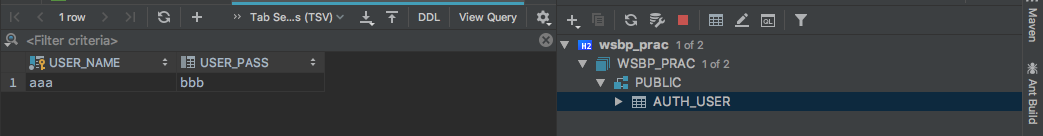
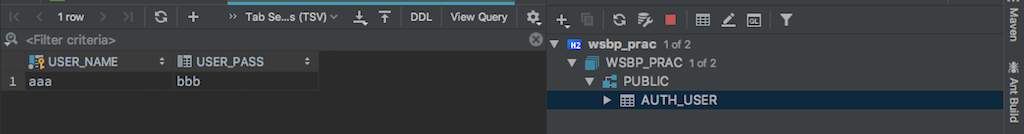
画像の解像度を修正、ミスリンクを修正

diff --git a/README.md b/README.md
@@ -56,8 +56,8 @@
 ### サインイン
 
 1. データのバリデーションを設定する
-    - [01](doc/D1/01.md)
-    - [課題](doc/D1/02.md)
+    - [01](doc/D01/01.md)
+    - [課題](doc/D01/02.md)
 1. サインインフォームを作成する
 1. サインインの基本ロジックを作成する3日目：サインイン
 
